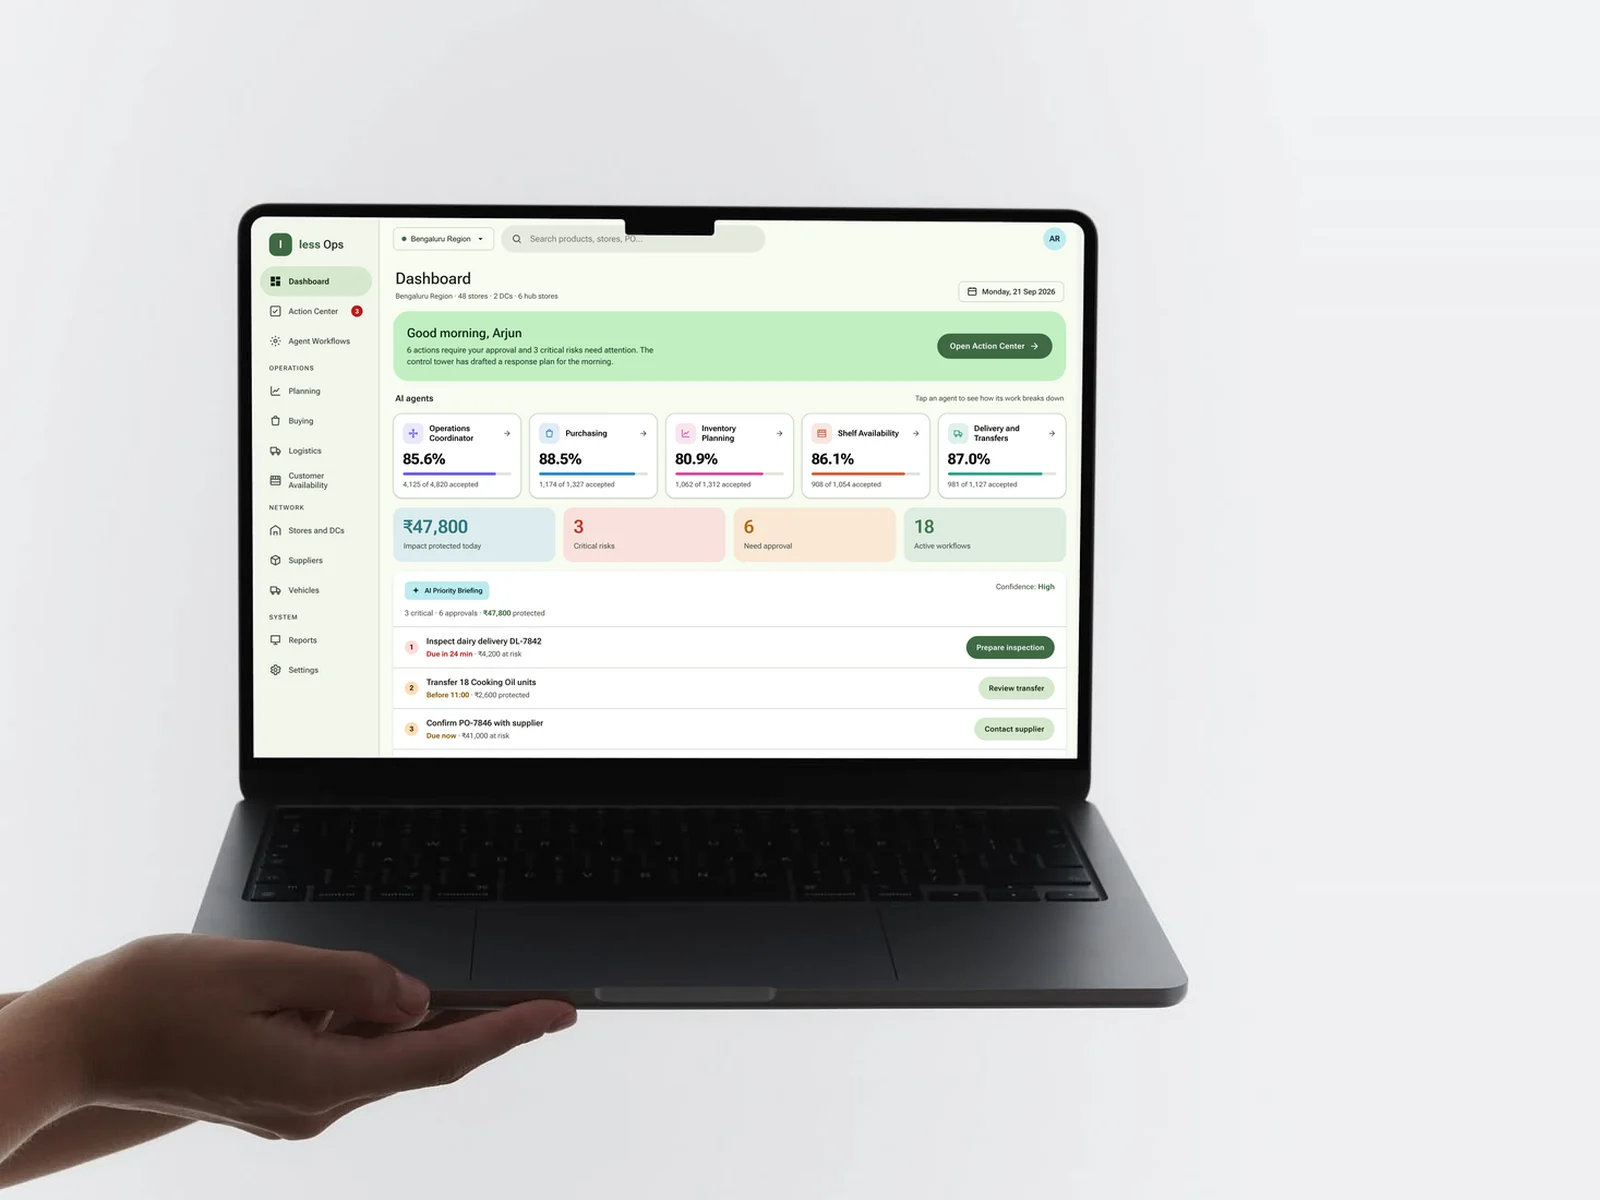
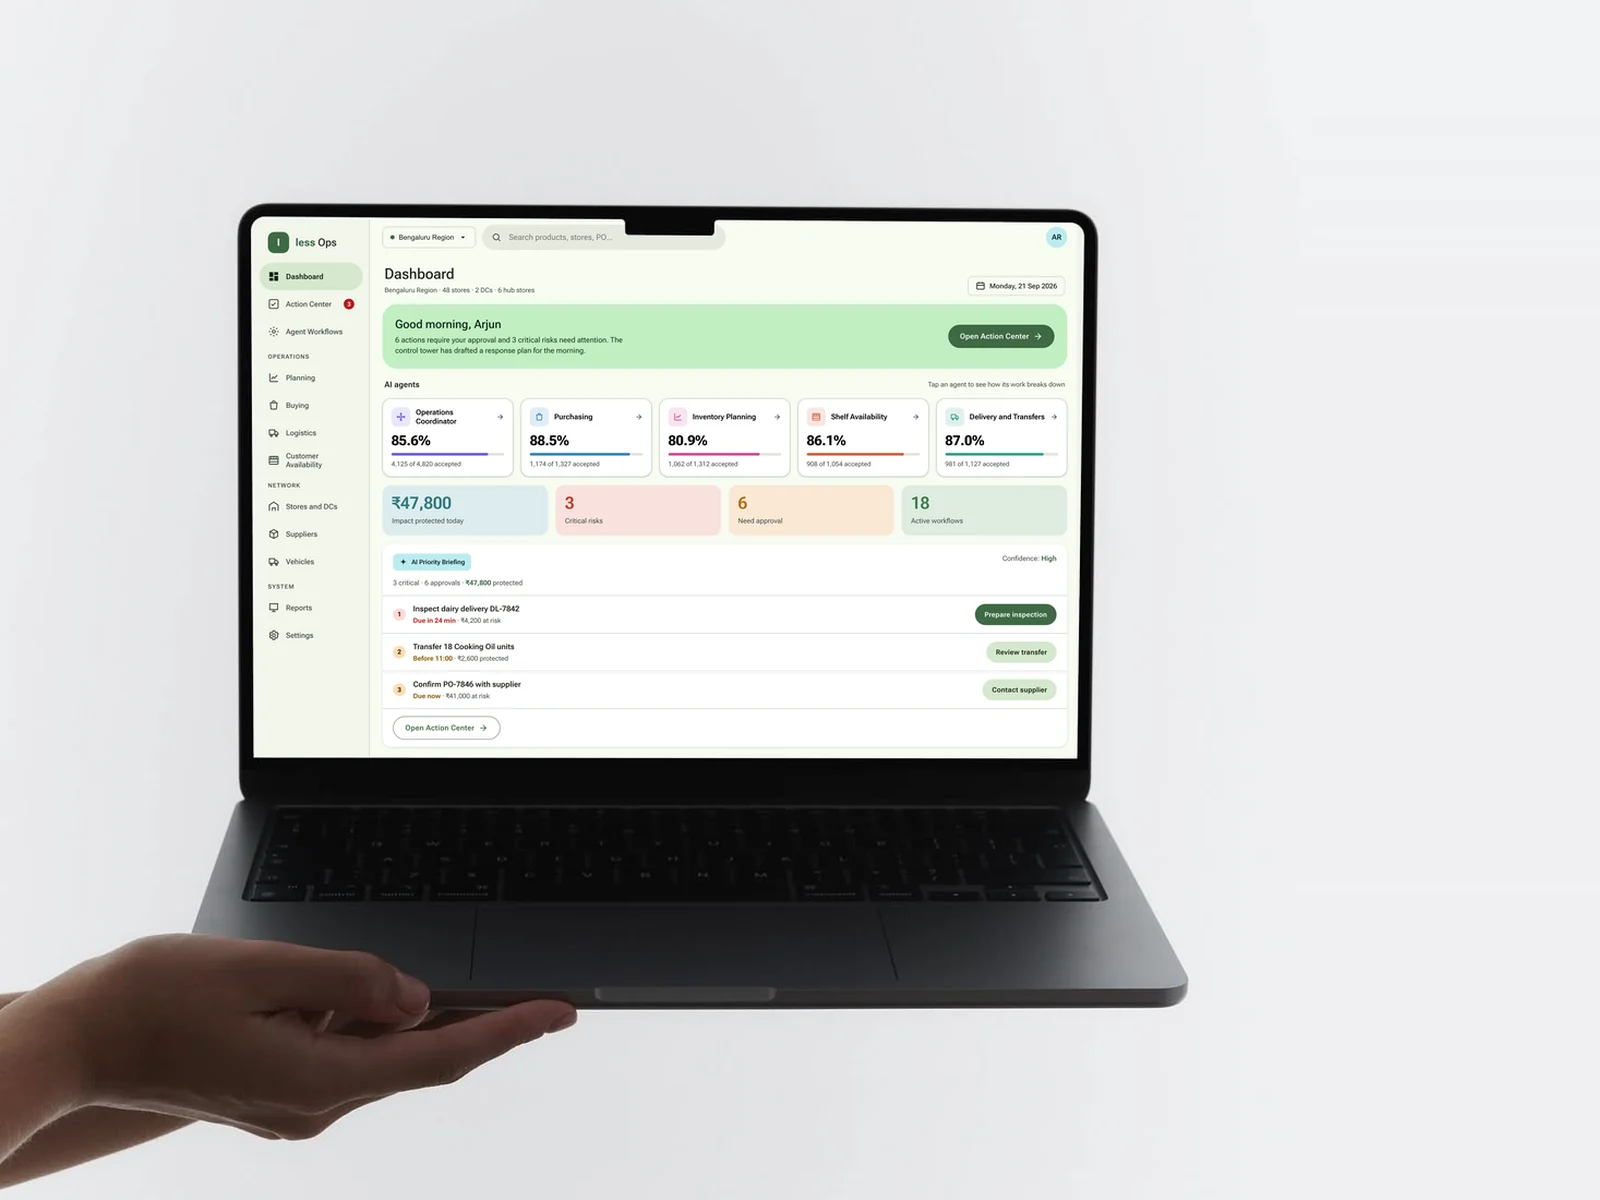
End the laptop's dashboard on a whole section
At 1440x939 the screen stopped partway through the priority list, with a
sliver of a fourth row along the bottom edge. Captured at 1560x1017 —
the same screen proportions, a little more room — it ends on the full
briefing card, Open Action Center button included, with a clean margin
under it.

Changed region(s): [[0.1562, 0.185, 0.6875, 0.6167]]

diff --git a/script.js b/script.js
@@ -273,7 +273,7 @@ const WORK = [
     // Decoded from the case study's own hero mockup and letterboxed onto the
     // artwork's background, so the laptop keeps its full width — the same
     // reason the insure-tech plate is padded rather than cover-cropped.
-    thumb: "media/less-ops-card.webp?v=5",
+    thumb: "media/less-ops-card.webp?v=6",
     // Opens in a tab rather than the portal: this one is a deployed site, not
     // a study embedded in the page, and it carries its own navigation.
     href: "https://less-ops.vercel.app/",

diff --git a/index.html b/index.html
@@ -368,6 +368,6 @@
   </footer>
 
   <script src="hand.js?v=254"></script>
-  <script src="script.js?v=409"></script>
+  <script src="script.js?v=410"></script>
 </body>
 </html>
